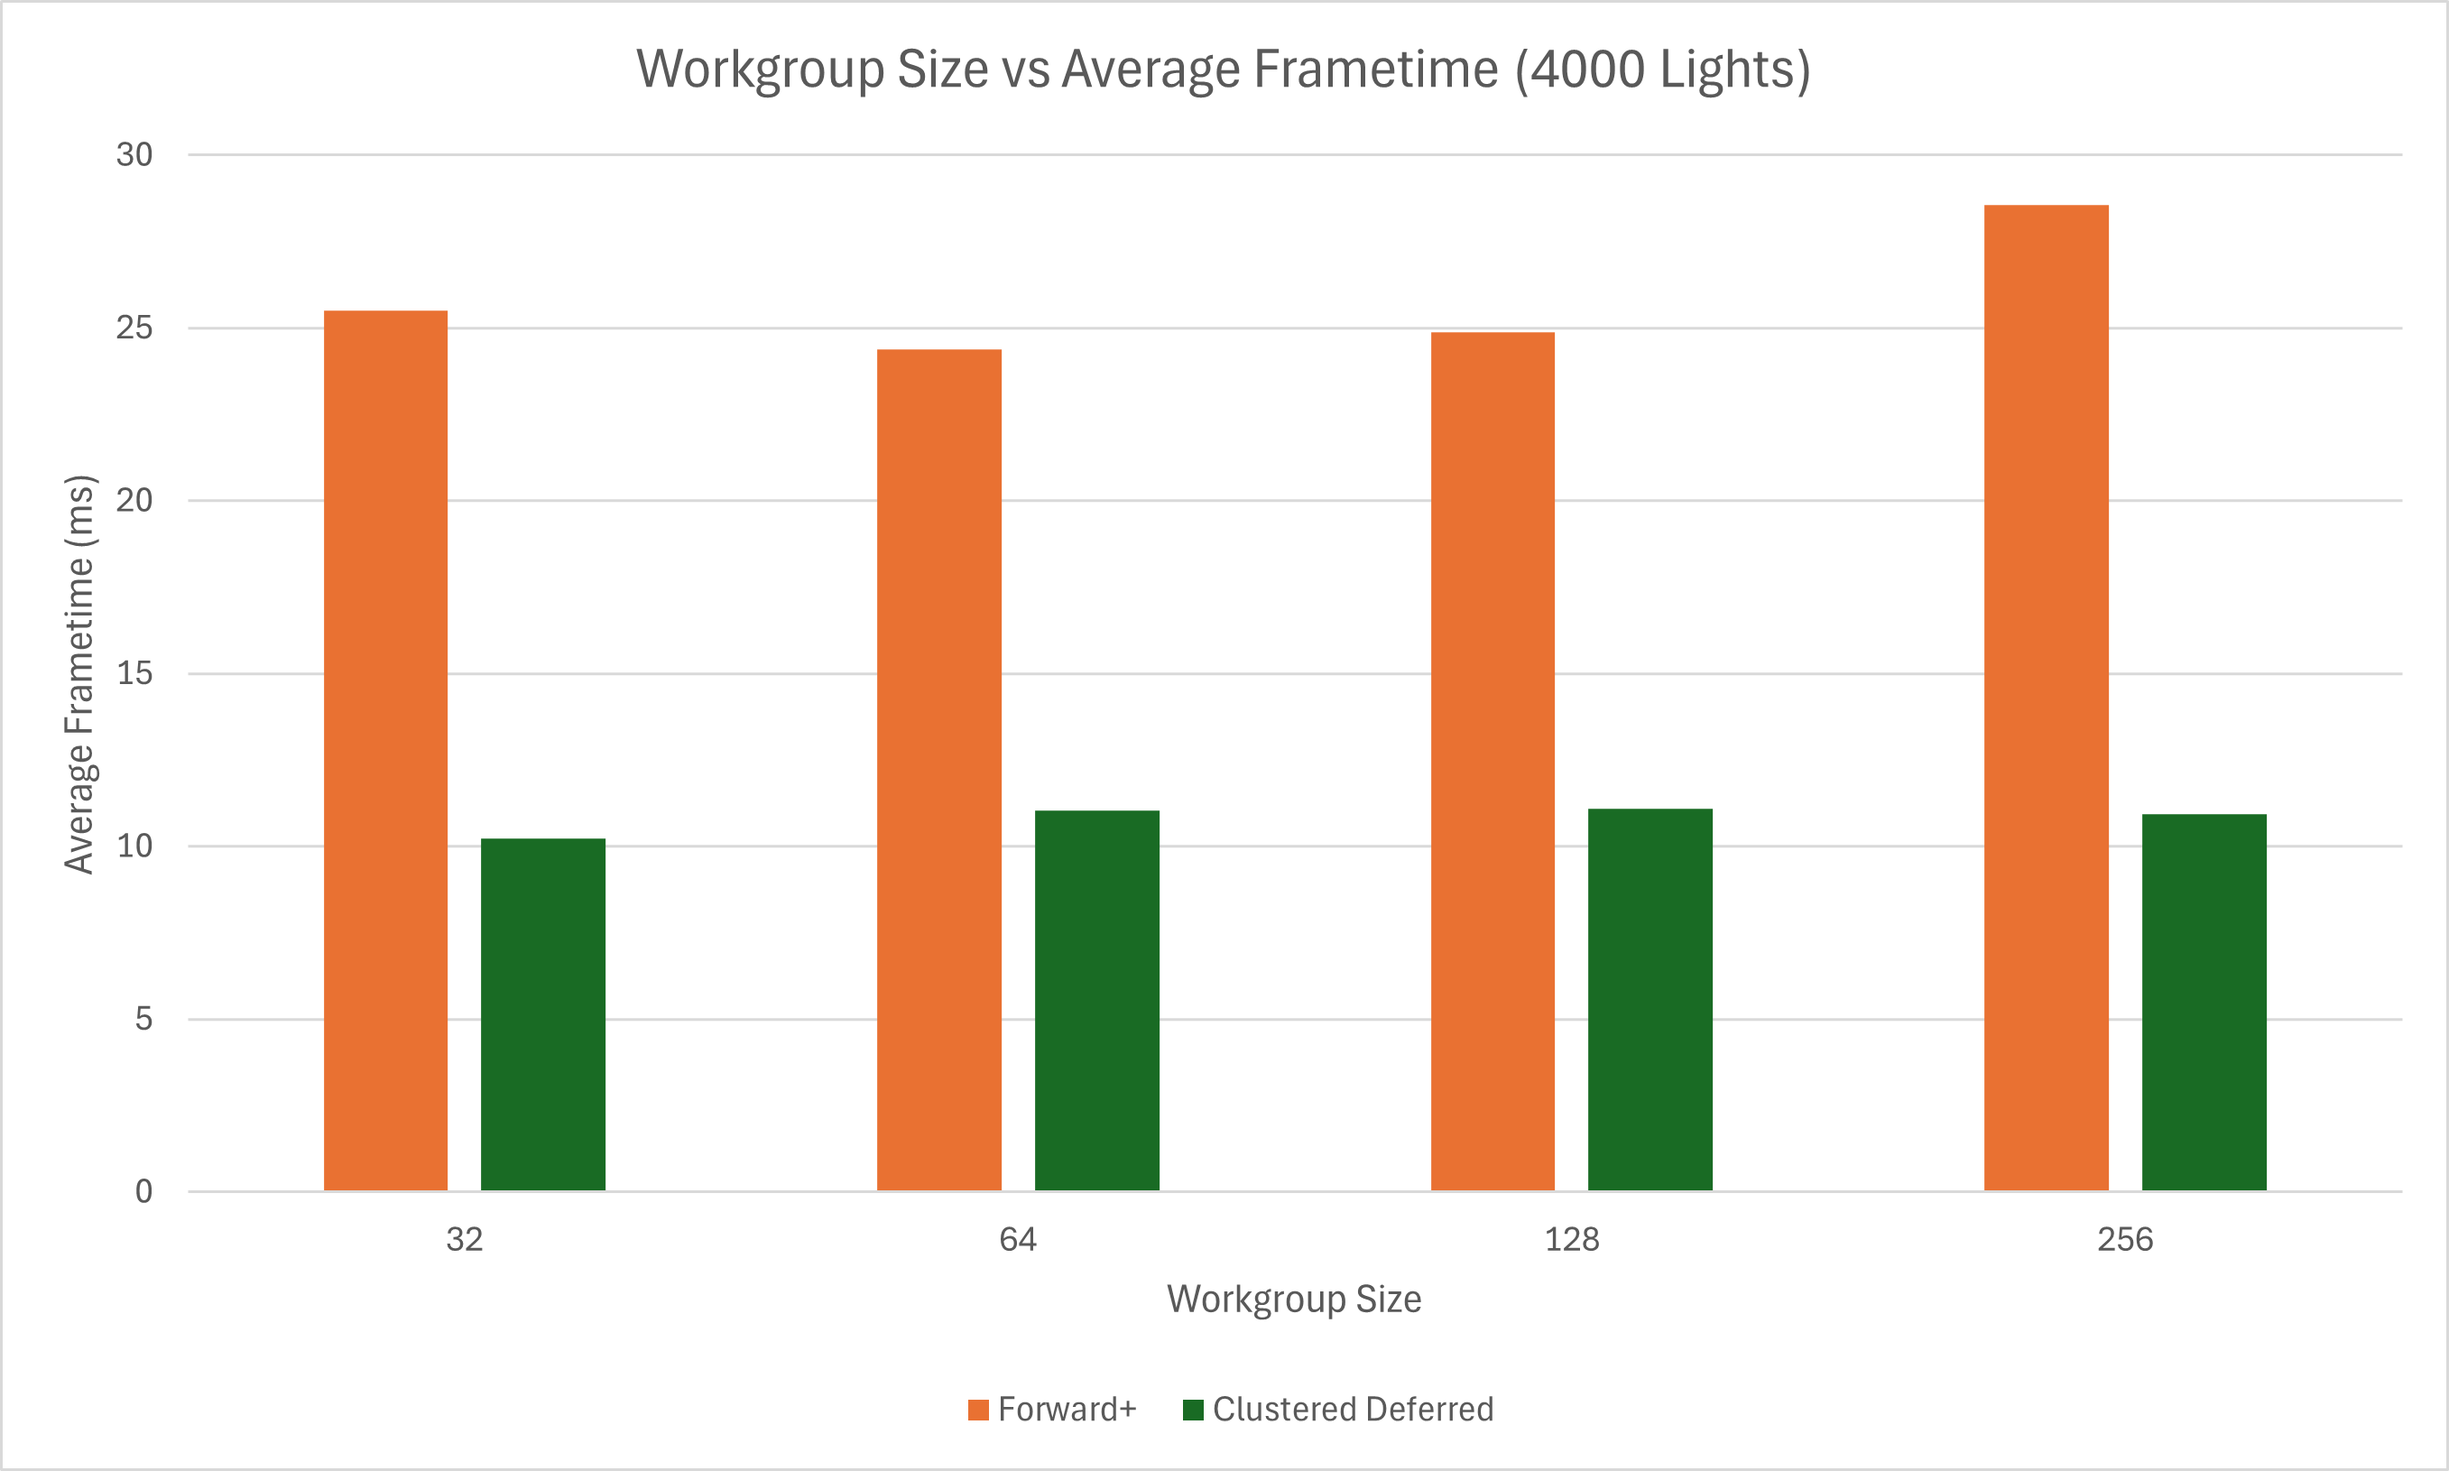
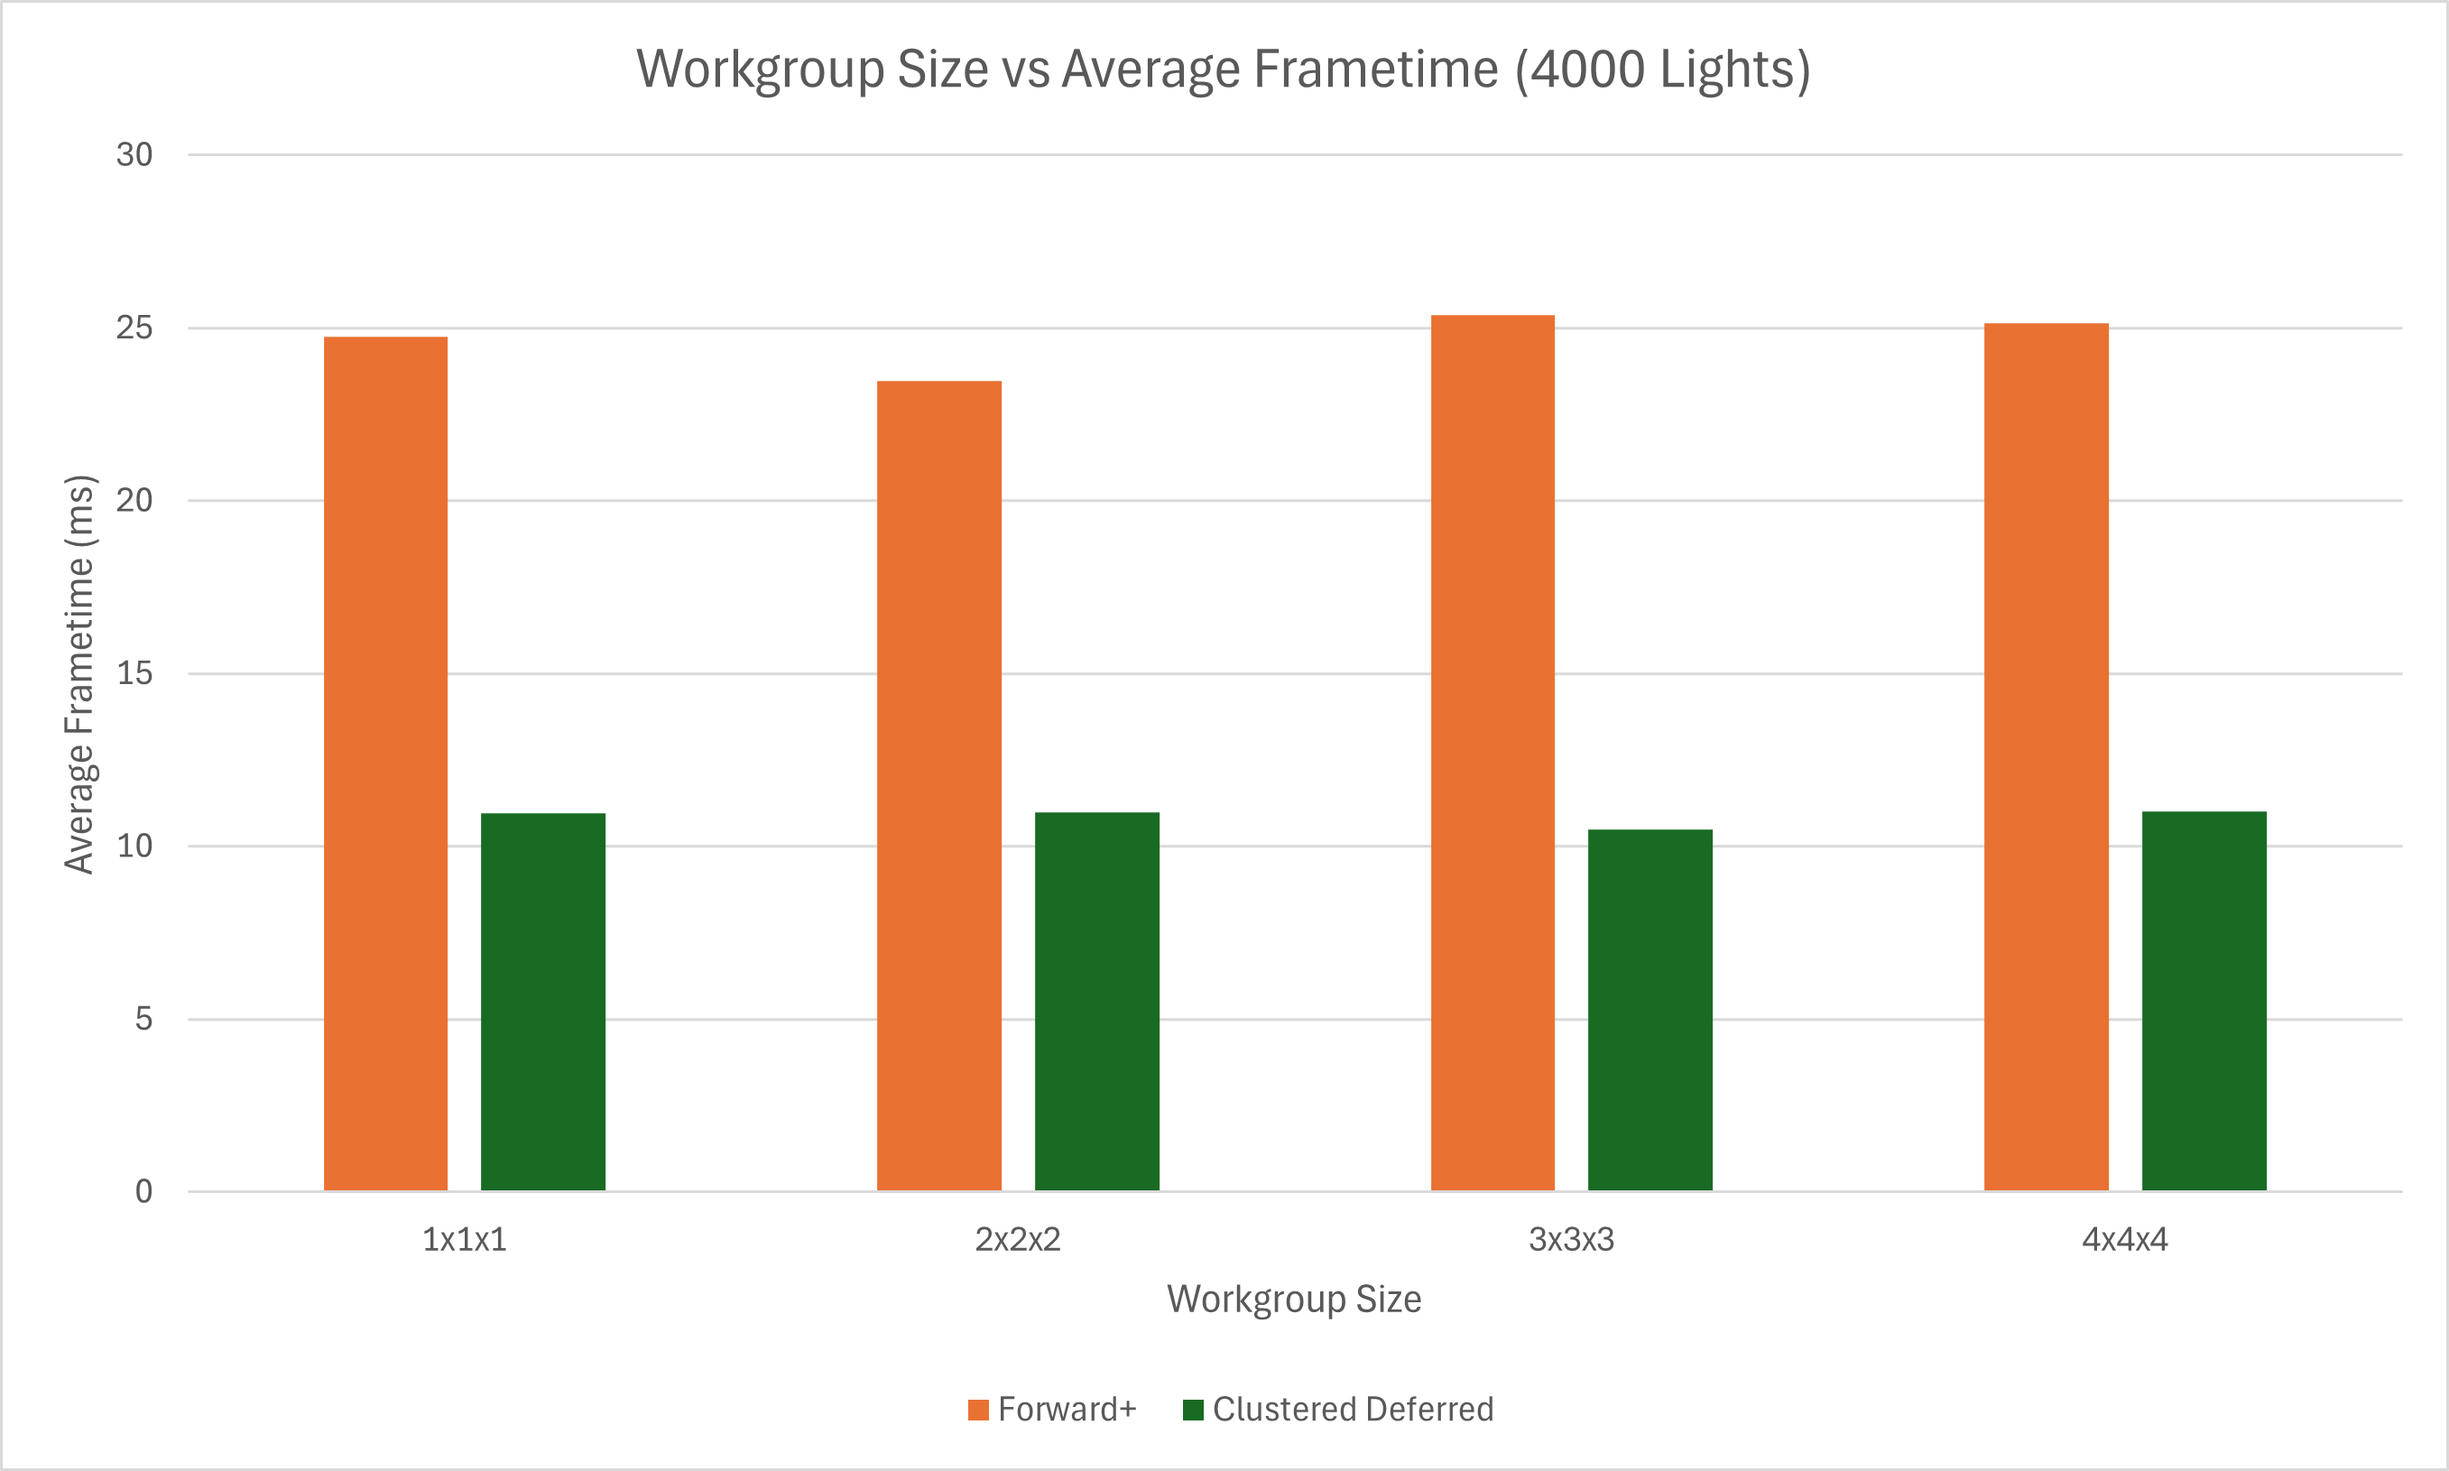
fix wg

diff --git a/src/stage/lights.ts b/src/stage/lights.ts
@@ -186,7 +186,12 @@ export class Lights {
         const computePass = encoder.beginComputePass();
         computePass.setPipeline(this.clusteringComputePipeline);
         computePass.setBindGroup(0, this.lightClusteringComputeBindGroup);
-        computePass.dispatchWorkgroups(shaders.constants.numClustersX, shaders.constants.numClustersY, shaders.constants.numClustersZ);
+        let c = 2;
+        computePass.dispatchWorkgroups(
+            Math.ceil(shaders.constants.numClustersX / c),
+            Math.ceil(shaders.constants.numClustersY / c),
+            Math.ceil(shaders.constants.numClustersZ / c)
+        );
         computePass.end();
     }
 

diff --git a/src/shaders/shaders.ts b/src/shaders/shaders.ts
@@ -37,7 +37,6 @@ export const constants = {
     numClustersZ: 24,
     numClusters:  16 * 9 * 24,
     maxLightsPerCluster: 1024,
-    clusterWorkgroupSize: 32,
 };
 
 // =================================

diff --git a/README.md b/README.md
@@ -65,7 +65,7 @@ In my implementation, I use a single color attachment for the G-buffer that cont
 
 ## Performance Analysis
 
-Timings are taken on a 3440x1440p 100 Hz monitor, which causes the frame time to cap at a minimum of 10 ms. **Cluster dimensions are 16x9x24, the workgroup size is 32, and each cluster can store 1024 light indices unless otherwise specified.** Lower frametime is better.
+Timings are taken on a 3440x1440p 100 Hz monitor, which causes the frame time to cap at a minimum of 10 ms. **Cluster dimensions are 16x9x24, the workgroup size is 1x1x1, and each cluster can store 1024 light indices unless otherwise specified.** Lower frametime is better.
 
 For the workgroup size and cluster dimension tests, I use 4000 lights, the reasoning being that this was the light count that started to cause the clustered deferred implementation to drop below 10 ms. Thus we can see performance differences while not being too compute bottlenecked.
 
@@ -81,7 +81,7 @@ Depending on the kind of rendering you want to do, a forward rendering approach 
 
 ![workgroup](img/workgroup.png)
 
-Changing the workgroup size used in the clustering compute shader does not really have a significant impact on overall performance. I suspect that the frametime is primarily bound by the pixel shading, which causes any difference in the clustering compute shader to not be very noticeable. Intuitively, clusters that are close to each other should have similar lights assigned to them due to 3D spatial locality, so it should be relatively coherent, and a larger workgroup size may take advantage of that, but we don't really see that across the board here.
+Changing the workgroup size used in the clustering compute shader does not really have a significant impact on overall performance. I suspect that the frametime is primarily bound by the pixel shading, which causes any difference in the clustering compute shader to not be very noticeable. Intuitively, clusters that are close to each other should have similar lights assigned to them due to 3D spatial locality, so it should be relatively coherent, and a larger workgroup size may take advantage of that, but we don't really see that across the board here. WebGPU also has a very small limit to the workgroup size (256 invocations) which is not very flexible. It probably would be worth testing with non-cubic sizes as well to try and match the cluster dimensions more but I did not do that here.
 
 ### Cluster Dimensions
 
